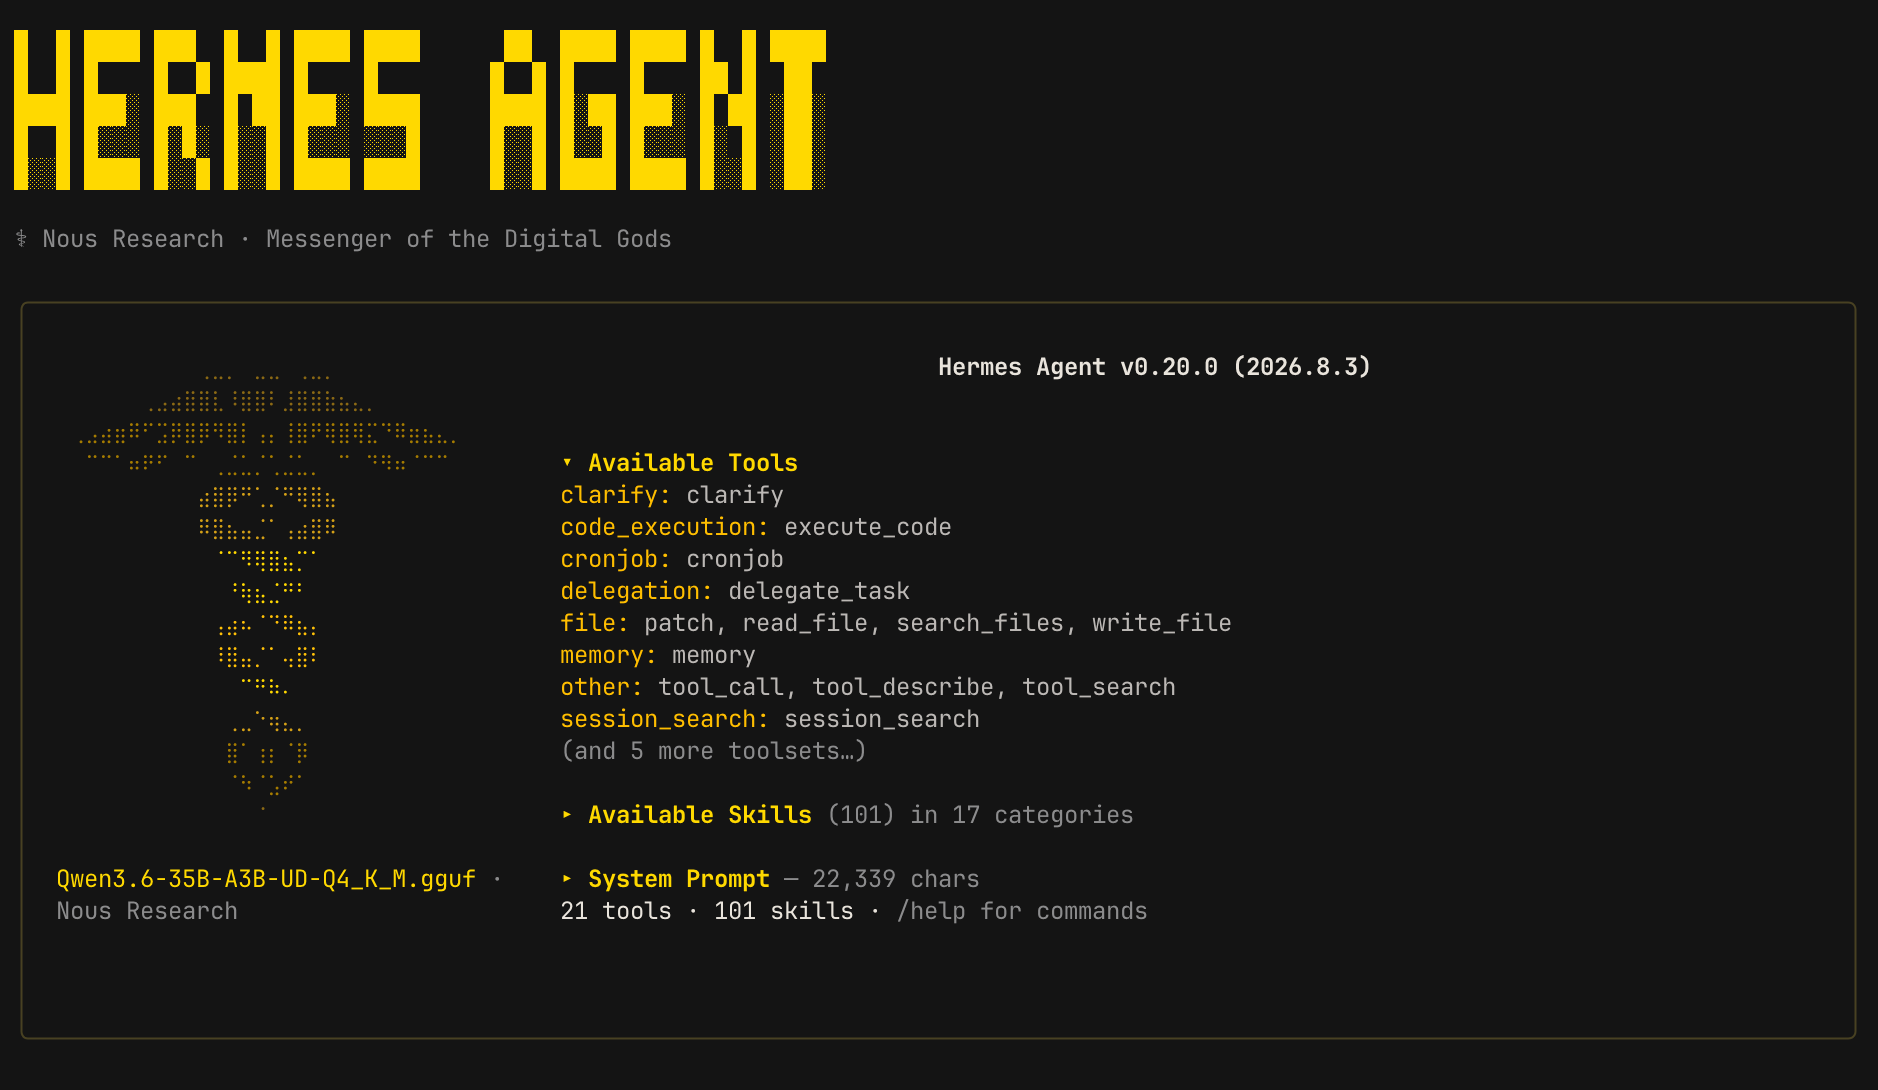
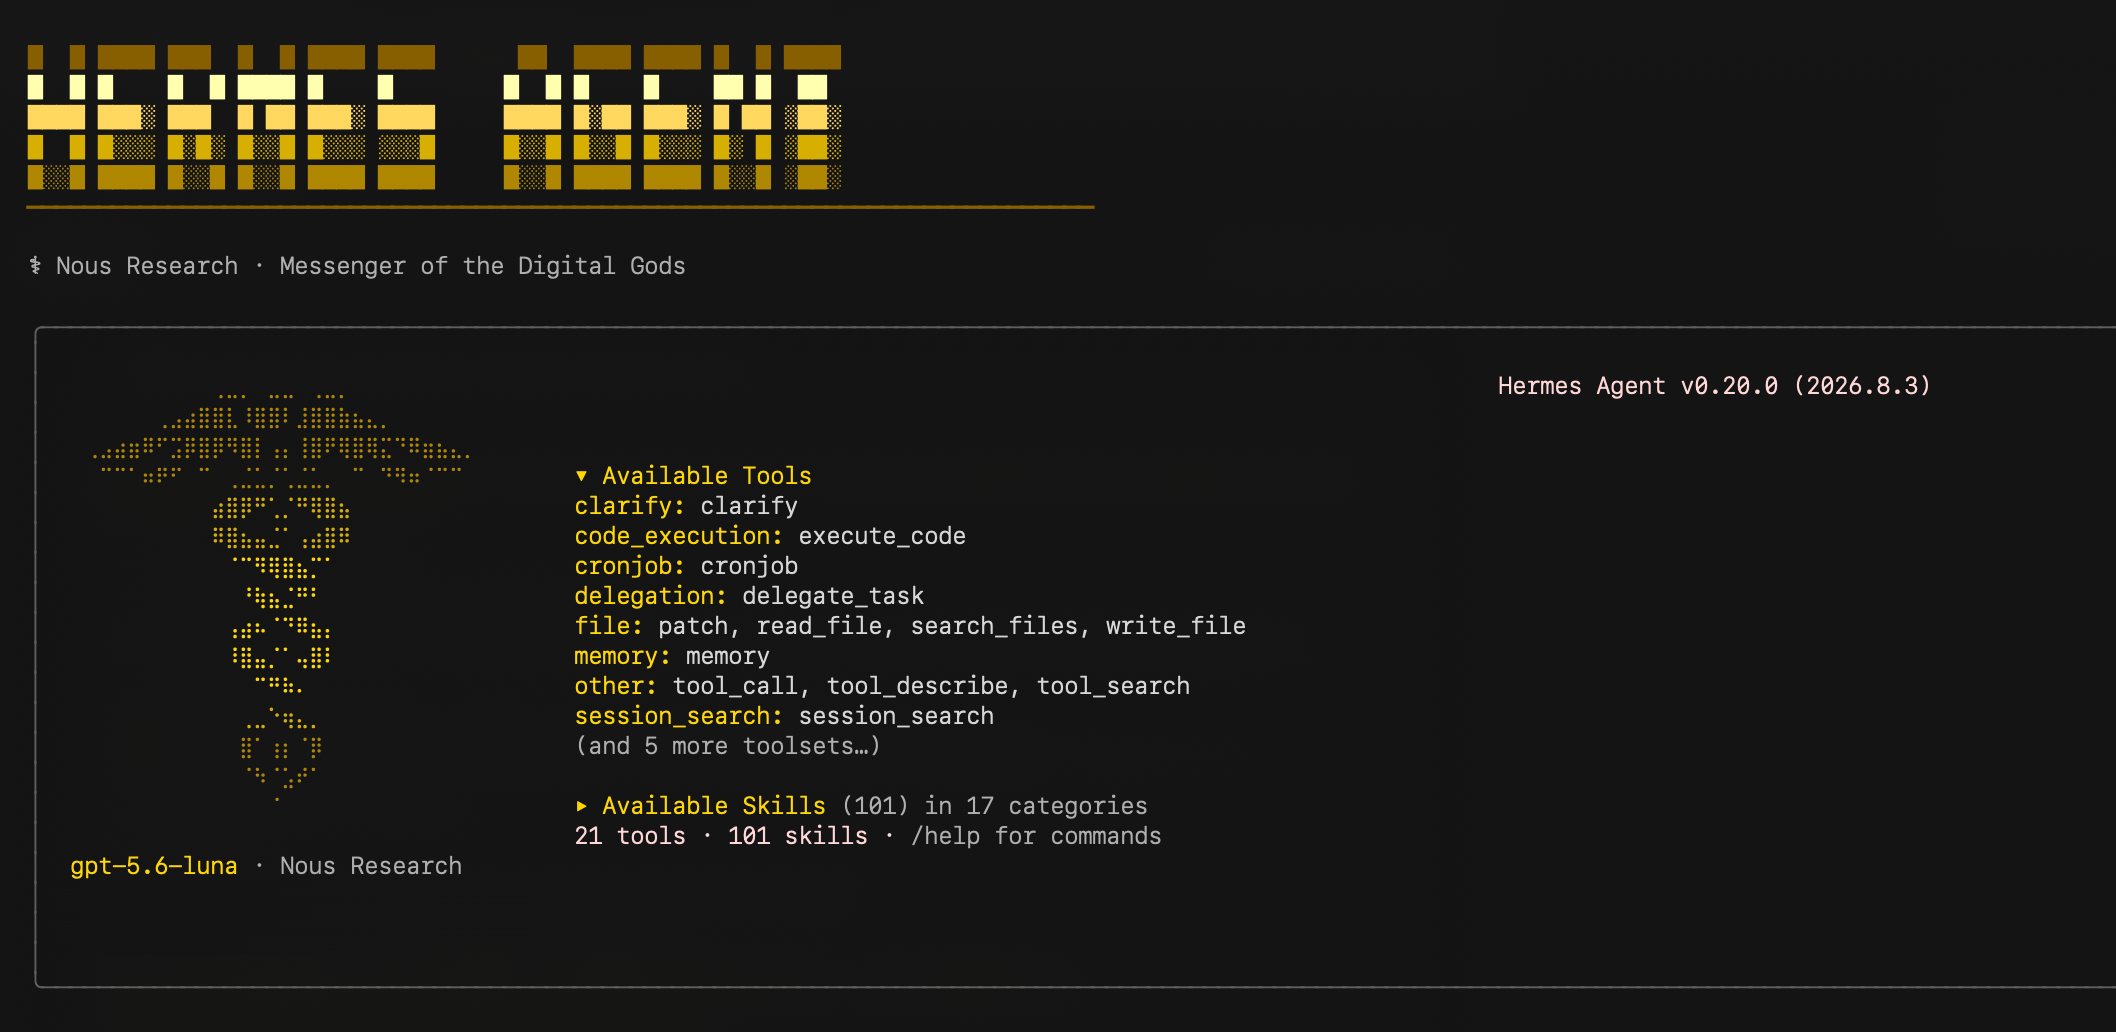
feat: add metallic TUI wordmark treatment (#5)
feat: add metallic TUI wordmark treatment
docs: refresh TUI preview with metallic wordmark

diff --git a/README.md b/README.md
@@ -8,9 +8,9 @@ A warm gold-on-charcoal theme for [Hermes Agent](https://github.com/NousResearch
 
 Hermes Gold applied to the native Hermes Agent TUI:
 
-![Hermes Agent TUI using Hermes Gold](assets/hermes-gold-tui.png)
+![Hermes Agent TUI using Hermes Gold, including the metallic wordmark](assets/hermes-gold-tui.png)
 
-*Captured with Hermes Agent v0.20.0 (2026.8.3).*
+*Captured with Hermes Agent v0.20.0 (2026.8.3); shows the terminal-safe metallic wordmark treatment.*
 
 ## Palette
 
